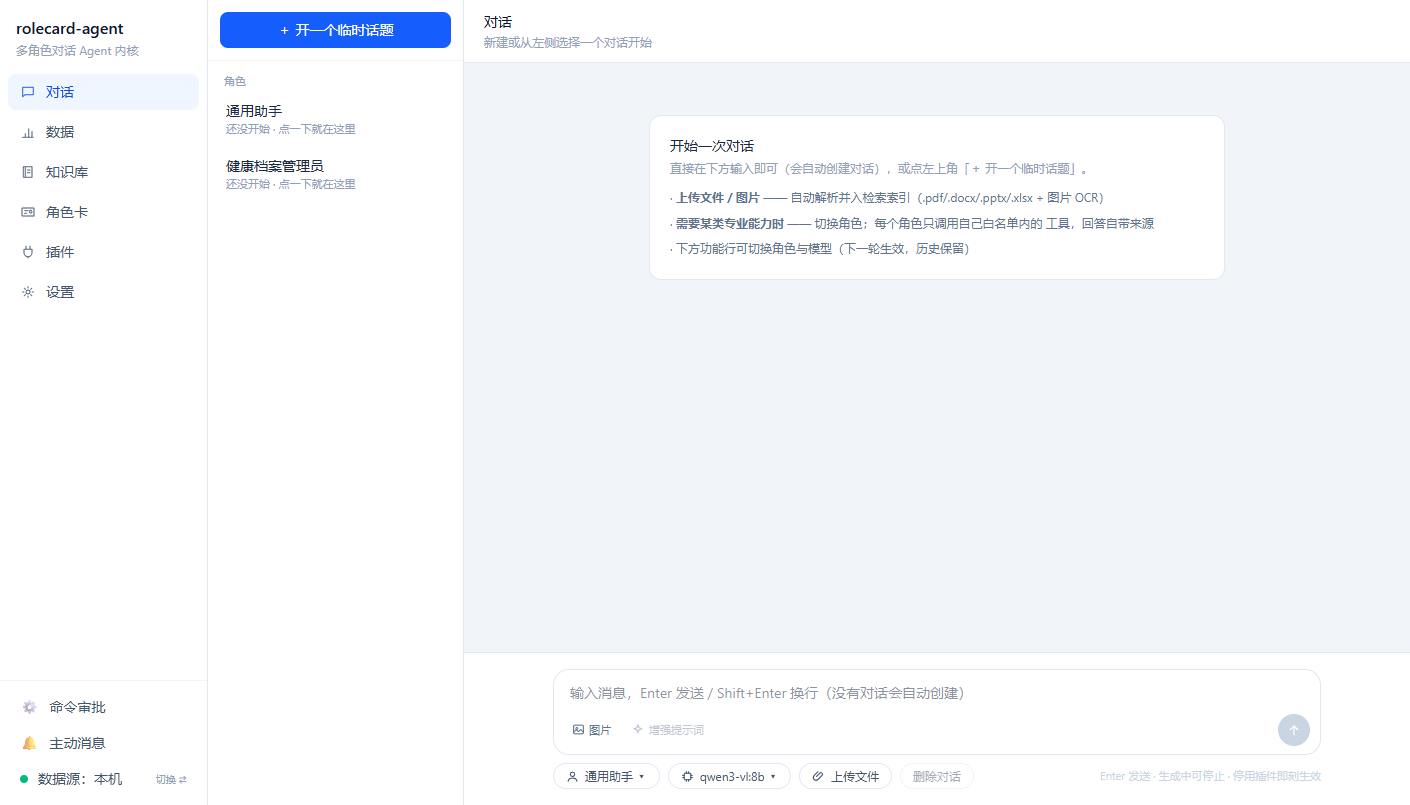
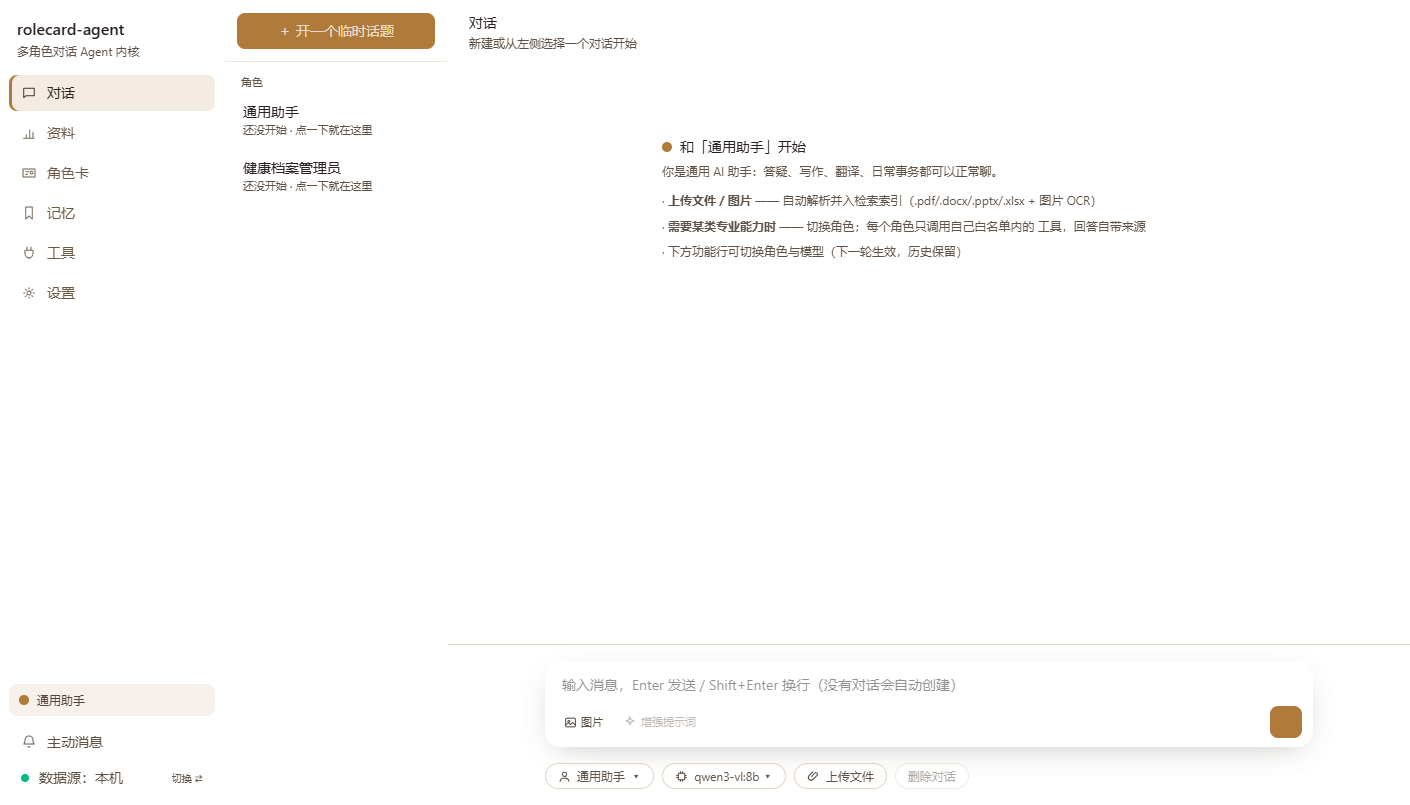
docs(readme): 六页签截图随 IA 重拍 —— 取景表换新页签，过时两图退役
- render_readme_shots.js 的取景表从旧 IA（knowledge/plugins）换为
  2026-10-30 六页签（chat/data/roles/memory/tools/settings）。
- 重拍脚本真跑：隔离后端 + 全新演示库 + headless Chrome，六图成
  build/readme-shots/，逐张过目（记忆页的页头英雄药丸与六页签侧栏、
  工具页的渠道空态/渠道卡都对）后替换 docs/assets/。
- console-knowledge.png / console-plugins.png 退役（对应页签已不存在），
  新增 console-memory.png / console-tools.png；README 两张图表换新。
- README 截图注记从"早于 IA 重排仅供视觉参考"改为"已随 IA 重拍"。

fast gate 全绿，直推 main。

diff --git a/scripts/js/render_readme_shots.js b/scripts/js/render_readme_shots.js
@@ -41,12 +41,13 @@ function loadPlaywright() {
 }
 
 // 与 README 里两张图的行列一一对应；`console-*.png` 的文件名就是这个 key。
+// 2026-10-30 IA：知识库并入「资料」区块、插件更名「工具」、新增顶层「记忆」。
 const PAGES = [
   ["chat", "对话页"],
-  ["data", "数据页"],
-  ["knowledge", "知识库页"],
+  ["data", "资料页"],
   ["roles", "角色卡页"],
-  ["plugins", "插件页"],
+  ["memory", "记忆页"],
+  ["tools", "工具页"],
   ["settings", "设置页"],
 ];
 

diff --git a/README.md b/README.md
@@ -62,15 +62,15 @@ git config core.hooksPath .githooks
 控制台六个页签（**2026-10-30 IA**，页签唯一出处见 `frontend/src/App.tsx` 的 TABS 注册表）：
 **对话**（过程）· **资料**（领域数据 + 知识库区块）· **角色卡**（人格与权限 + 工作区）·
 **记忆**（跨会话事实 + 主动开口）· **工具**（能力开关 + MCP + 渠道）· **设置**（环境与凭据）。
-（截图拍于 2026-10-12，早于 10-30 的 IA 重排，仅供视觉参考；重拍工具：`scripts/tools/render_readme_shots.py`）
+（截图 2026-10-30 随 IA 重排重拍；重拍工具：`scripts/tools/render_readme_shots.py`）
 
-| 对话 | 数据（可补录） | 知识库（RAG + 检索延迟） |
+| 对话 | 资料（领域数据 + 知识库区块） | 角色卡（含工作区） |
 | --- | --- | --- |
-| ![对话页](docs/assets/console-chat.png) | ![数据页](docs/assets/console-data.png) | ![知识库页](docs/assets/console-knowledge.png) |
+| ![对话页](docs/assets/console-chat.png) | ![资料页](docs/assets/console-data.png) | ![角色卡页](docs/assets/console-roles.png) |
 
-| 角色卡（含范例 exemplars） | 插件（纯能力开关） | 设置（模型热切换 + 回退链） |
+| 记忆（跨会话事实 + 主动开口） | 工具（能力开关 + MCP + 渠道） | 设置（模型热切换 + 回退链） |
 | --- | --- | --- |
-| ![角色卡页](docs/assets/console-roles.png) | ![插件页](docs/assets/console-plugins.png) | ![设置页](docs/assets/console-settings.png) |
+| ![记忆页](docs/assets/console-memory.png) | ![工具页](docs/assets/console-tools.png) | ![设置页](docs/assets/console-settings.png) |
 
 ---
 
